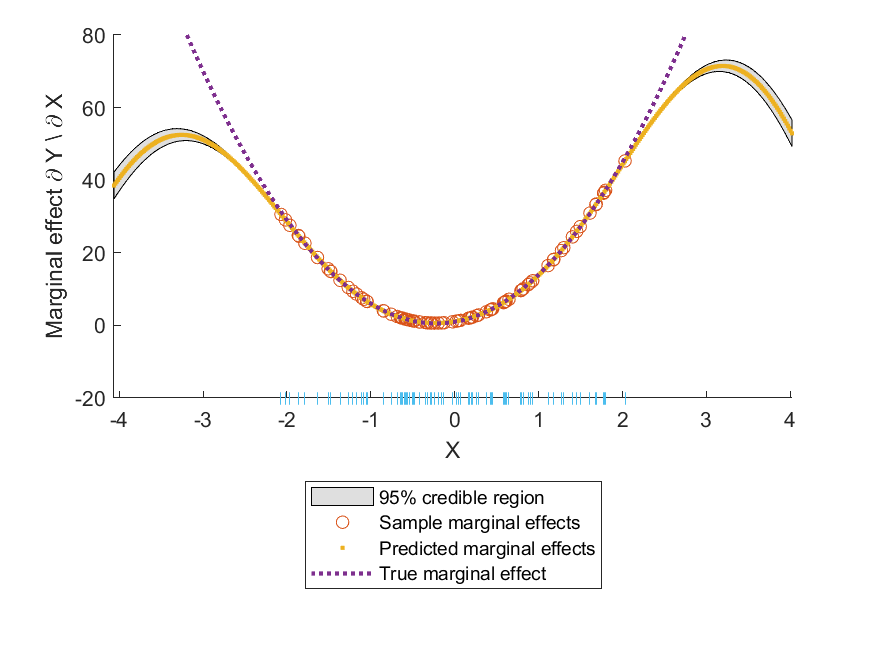
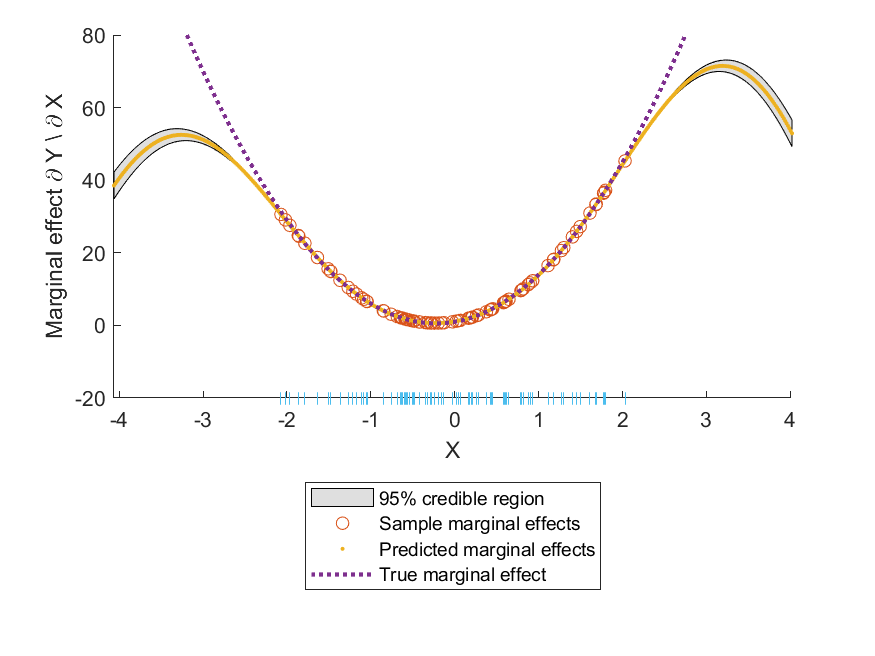
Change dimension of pme output, simplify gridme
Update some of the bivariate_linear and bivariate_linear_interaction plots to test whether gridding has improved. It has not. Switch all plotting functionality to plotme and change gridme into a generalized gridding function to support plotme.

diff --git a/simulations/bivariate_linear.m b/simulations/bivariate_linear.m
@@ -43,8 +43,101 @@ p.length = 100;
 % Learn MAP parameter estimates
 hyp_iso = minimize_v2(hyp, @gp, p, inffunc, meanfunc, covfunc, likfunc, train_X, train_y);
 
+
+%%%%%%%%%%%%%%%%%%%%%%%%%%%%%%%%%%%%
+
+numsteps = 100;
+
+[~,D] = size(X);
+gridX = cell(1, D);
+
+% Grid each covariate separately
+for idx = 1:D
+    range = max(X(:,idx)) - min(X(:,idx)) + 4*sqrt(var(X(:,idx)));
+    gXd = ((min(X(:,idx)) - 2*sqrt(var(X(:,idx)))):range/(numsteps-1):(max(X(:,idx)) + 2*sqrt(var(X(:,idx)))))';
+    gridX{idx} = gXd; % Overwrite d^th covariate with the grid
+end
+
+% Make combined grid
+gCopy = gridX;
+[gCopy{:}] = ndgrid(gridX{:});
+Xs = cell2mat(cellfun(@(m)m(:),gCopy,'UniformOutput',false));
+
+
+% Call pme
+tic;
+[f1, f2] = pme(hyp_iso, meanfunc, covfunc, X, y);            % sample
+[voot1, voot2, voot3] = ame(hyp_iso, meanfunc, covfunc, X, y); 
+toc;
+
+% Xs is 10,000 x 2 when numsteps = 100
+tic;
+[g1, g2] = pme(hyp_iso, meanfunc, covfunc, X, y, Xs);       % predictions     
+toc;
+
+
+% For each unique value in the X1 dimension, take the mean of all
+% corresponding g1 values. Calculate the variance. This is the estimate for
+% the marginal effect at the unique value in X1 as X2 ranges over its grid.
+
+% For calc
+
+test = [Xs(:,1), g1(:,1)];
+voot = sortrows(test, 1);
+
+for i = 1:numsteps
+    v(i) = mean(voot(((i-1)*100 + 1):(i*100), 2));
+    bee(i) = var(voot(((i-1)*100 + 1):(i*100), 2));
+    xx(i) = voot((i-1)*100+1, 1);
+end
+z = [xx,v];
+
+hold on;
+plot(z(:,1), z(:,2), '.')
+plot(z(:,1), bee, 'o')
+foo = ylim;
+plot(X(:,1), foo(1)*zeros(size(X(:,1),1),1), '|')
+hold off;
+
+%
+%
+%
+
 d=1;
-numsteps=500;
+
+plotSort = sortrows([Xs(:,d), g1(:,d), g2(:,d)], 1);
+g = [plotSort(:,2)-1.96*sqrt(plotSort(:,3)); flip(plotSort(:,2)+1.96*sqrt(plotSort(:,3)))];
+plt = fill([Xs(:,1); flip(Xs(:,1))], g, [7 7 7]/8);
+
+
+
+g = [g1(:,d)+1.96*sqrt(g2(:,d)); flip( g1(:,d)-1.96*sqrt(g2(:,d)) )];
+hold on;
+plt = fill([Xs(:,1); flip(Xs(:,1))], g, [7 7 7]/8);
+
+g = [plotSort(:,2)-1.96*sqrt(plotSort(:,3)); flip(plotSort(:,2)+1.96*sqrt(plotSort(:,3)))];
+hold on;
+plt = fill([plotSort(:,1); flip(plotSort(:,1))], g, [7 7 7]/8);
+plot(X(:,d), f1(:,d), 'o')                             % sample
+plot(Xs(:,d), g1(:,d), '.')                            % predictions
+hold off;
+xlabel('X')
+ylabel('Marginal effect \partial Y \\ \partial X')
+xlim([min(Xs(:,d)), max(Xs(:,d))])
+legend('95% credible region', ...
+    'Sample marginal effects', ...
+    'Predicted marginal effects')
+
+
+
+
+%%%%%%%%%%%%%%%%%%%%%%%%%%%%%%%%%%%%
+
+
+
+
+d=1;
+numsteps=100;
 [ bivariate_linear_x1_iso, gridX ] = gridme(d, numsteps, hyp_iso, meanfunc, covfunc, X, y);
 hold on;
 plot(gridX(:,d), b1*ones(size(gridX,1), 1), ':', 'LineWidth', 2, 'DisplayName', "True marginal effect");
@@ -60,7 +153,7 @@ saveas(bivariate_linear_x1_iso, "C:\Users\johnsontr\Documents\GitHub\gpd\simulat
 close;
 
 d=2;
-numsteps=500;
+numsteps=100;
 [ bivariate_linear_x2_iso, gridX ] = gridme(d, numsteps, hyp_iso, meanfunc, covfunc, X, y);
 hold on;
 plot(gridX(:,d), b2*ones(size(gridX,1), 1), ':', 'LineWidth', 2, 'DisplayName', "True marginal effect");

diff --git a/gridme.m b/gridme.m
@@ -1,4 +1,4 @@
-function [ plt, Z ] = gridme(d, numsteps, hyp, meanfunc, covfunc, X, y, plot_Xdim)
+function [ plt, Xs ] = gridme(d, numsteps, hyp, meanfunc, covfunc, X, y, plot_Xdim)
 % This function automates some of the prediction for generating marginal
 % effects plots with plotme(). Grids are automatically generated for
 % plotme() argument Xs given the covariate of interest d.
@@ -12,24 +12,24 @@ function [ plt, Z ] = gridme(d, numsteps, hyp, meanfunc, covfunc, X, y, plot_Xdi
     [~,D] = size(X);
     gridX = cell(1, D);
     
-    % Make the grid over any index specified in interaction_indices
+    % Grid each covariate separately
     for idx = 1:D
         range = max(X(:,idx)) - min(X(:,idx)) + 4*sqrt(var(X(:,idx)));
         gXd = ((min(X(:,idx)) - 2*sqrt(var(X(:,idx)))):range/(numsteps-1):(max(X(:,idx)) + 2*sqrt(var(X(:,idx)))))';
         gridX{idx} = gXd; % Overwrite d^th covariate with the grid
     end
 
-    % Make the grid Z
+    % Make combined grid
     gCopy = gridX;
     [gCopy{:}] = ndgrid(gridX{:});
-    Z = cell2mat(cellfun(@(m)m(:),gCopy,'UniformOutput',false));
+    Xs = cell2mat(cellfun(@(m)m(:),gCopy,'UniformOutput',false));
 
+    % Plot using the grid
     switch nargin 
         case 7 % If plot_Xdim isn't specified, plot X dim is dimension d
-            plt = plotme(d, hyp, meanfunc, covfunc, X, y, Z);
-        case 8 % Grid everything
-            plt = plotme(d, hyp, meanfunc, covfunc, X, y, Z, plot_Xdim);
-        %case 9 % Only grid certain dimensions
+            plt = plotme(d, hyp, meanfunc, covfunc, X, y, Xs);
+        case 8 % Plot w.r.t. plot_Xdim instead of dimension d
+            plt = plotme(d, hyp, meanfunc, covfunc, X, y, Xs, plot_Xdim);
     end
 
 end

diff --git a/simulations/bivariate_linear_interaction.m b/simulations/bivariate_linear_interaction.m
@@ -44,7 +44,7 @@ p.length = 100;
 hyp_iso = minimize_v2(hyp, @gp, p, inffunc, meanfunc, covfunc, likfunc, train_X, train_y);
 
 d=1;
-numsteps=500;
+numsteps=100;
 [ bivariate_linear_interaction_x1_iso, gridX ] = gridme(d, numsteps, hyp_iso, meanfunc, covfunc, X, y, 2);
 hold on;
 [dydx, ~] = pme(hyp_iso, meanfunc, covfunc, X, y);            % sample

diff --git a/pme.m b/pme.m
@@ -16,4 +16,7 @@ function [ MEs, VARs ] = pme(hyp, meanfunc, covfunc, X, y, Xs)
         [ MEs(:,i), VARs(:,i) ] = me(hyp, meanfunc, covfunc, X, y, Xs(i,:));
     end
 
+    MEs = MEs';
+    VARs = VARs';
+
 end
